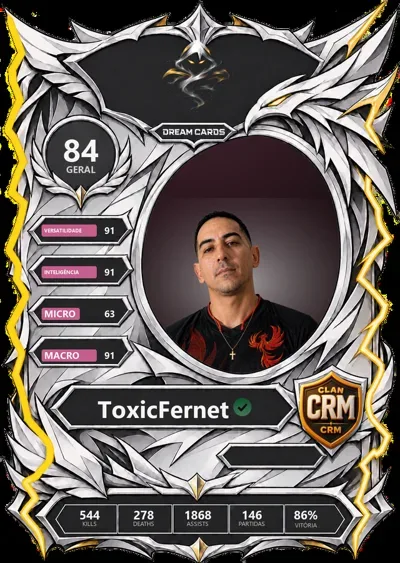
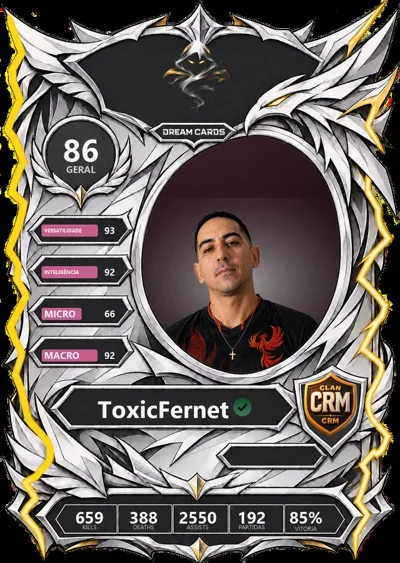
Dados do site de 27/11: numeros, mural, cartas do topo e a Radio de hoje
O site estava congelado desde 21/11 04:15 (gerar e publicar sao a mao, nada agendado).

- numeros medidos em 27/11 10:48: 18 servidores, 2.013 membros, 1.550 pessoas,
  141 cartas, 6.598 partidas lidas, 9.116 prints.
  O medidor lia o Dream Cards na VPS 2, desligada desde a virada de 18/11, e devolvia
  ZERO cartas/partidas/prints; agora le na VPS 7, em /opt/crm/DreamCards/Dados.
- mural Acontece na comunidade: de 20/11 para 26-27/11 (9 imagens trocadas)
- as 6 cartas do topo da temporada 16, atualizadas
- Radio: radio.json regerado em 27/11 11:27 (as mesmas 25 faixas, 6 discos)
- index.html: dados.js?v=20261121 para ?v=20261127

diff --git a/dados/dados.js b/dados/dados.js
@@ -1,5 +1,5 @@
 window.CRM_DADOS = {
- "gerado_em": "21/11/2026 04:15",
+ "gerado_em": "27/11/2026 11:27",
  "fonte": "Claude (do código do projeto)",
  "produtos": [
   {
@@ -282,14 +282,14 @@ window.CRM_DADOS = {
   "comprovante_passo": "No Discord da CRM, no canal 🎩・la-nostra-casa, escolhe **Abrir Ticket** no menu e manda o comprovante ali."
  },
  "numeros": {
-  "medido_em": "20/11/2026 11:18",
+  "medido_em": "27/11/2026 10:48",
   "frases": {
    "servidores": "18 servidores",
    "pessoas": "1.500+ pessoas",
-   "membros": "1.900+ membros na rede",
-   "cartas": "131 cartas",
-   "partidas": "5.000+ partidas lidas",
-   "prints": "8.000+ prints",
+   "membros": "2.000+ membros na rede",
+   "cartas": "141 cartas",
+   "partidas": "6.000+ partidas lidas",
+   "prints": "9.000+ prints",
    "midia": "a mídia chega em 16 servidores"
   },
   "proibido": [
@@ -706,24 +706,24 @@ window.CRM_DADOS = {
  },
  "dreamcards": {
   "temporada": 16,
-  "atualizado_epoch": 1795245027.7020826,
+  "atualizado_epoch": 1795789379.2724805,
   "premio": "O prêmio da próxima temporada do pódio é anunciado no Discord do Dream Cards. O Mobile Legends ganha prêmio quando chegar a 50 jogadores com carta.",
   "cartas": [
    {
     "posicao": 1,
-    "nick": "ASF·是瑶瑶呀/.",
+    "nick": "FXV.SAGRADO亗",
     "imagem_referencia": "site-dados/cartas/01.webp",
     "imagem": "assets/cartas/01.webp"
    },
    {
     "posicao": 2,
-    "nick": "FXV.SAGRADO亗",
+    "nick": "ASF•AuraFarmer",
     "imagem_referencia": "site-dados/cartas/02.webp",
     "imagem": "assets/cartas/02.webp"
    },
    {
     "posicao": 3,
-    "nick": "Alagusii",
+    "nick": "🇨🇱lkaozzz.",
     "imagem_referencia": "site-dados/cartas/03.webp",
     "imagem": "assets/cartas/03.webp"
    },
@@ -735,13 +735,13 @@ window.CRM_DADOS = {
    },
    {
     "posicao": 5,
-    "nick": "⨀CRM.¥uTa",
+    "nick": "Alagusii",
     "imagem_referencia": "site-dados/cartas/05.webp",
     "imagem": "assets/cartas/05.webp"
    },
    {
     "posicao": 6,
-    "nick": "Faals",
+    "nick": "ASF_nando",
     "imagem_referencia": "site-dados/cartas/06.webp",
     "imagem": "assets/cartas/06.webp"
    }
@@ -884,7 +884,7 @@ window.CRM_DADOS = {
  "em_preparo": [],
  "radio": {
   "nome": "Rádio CRM",
-  "gerado_em": "21/11/2026 04:15",
+  "gerado_em": "27/11/2026 11:27",
   "epoch_inicio": 1792983600,
   "total_s": 5324.2,
   "como_tocar": "posição = (agora_em_segundos - epoch_inicio) mod total_s; anda pela lista somando duracao_s até achar a faixa e o segundo dentro dela. O navegador só toca depois do 1º clique (regra dos navegadores): o botão 'Ouvir' liga e pula pro segundo certo.",
@@ -1252,167 +1252,167 @@ window.CRM_DADOS = {
   ]
  },
  "midia": {
-  "atualizado_em": "2026-11-21T04:19:28-03:00",
+  "atualizado_em": "2026-11-27T11:28:04-03:00",
   "fonte": "o 📲・mídia do Discord da CRM",
   "posts": [
    {
-    "id": "1573488134002315297",
-    "texto": "🌟 HORA DOURADA COMEÇOU! Até as 22:00, todo o drop vale 2x: a chance das cartas (a Etiril e as raras), os CRM coins de cada print e a chance da Joia Dream. Manda print! 🎁",
+    "id": "1575855645704593439",
+    "texto": "💀🧟 DROP DAS MORTES! morreu tanto que virou zumbi e dropou a carta Lápide do Retorno da Zumbilândia!",
     "autor_publico": "Dream Cards",
     "origem_publica": "Discord da CRM · 📲 mídia",
-    "publicado_em": "2026-11-20T21:00:05-03:00",
-    "url_discord": "https://discord.com/channels/1424066515564495095/1449866124517965834/1573488134002315297",
+    "publicado_em": "2026-11-27T09:47:43-03:00",
+    "url_discord": "https://discord.com/channels/1424066515564495095/1449866124517965834/1575855645704593439",
+    "anexos": [
+     {
+      "tipo": "imagem",
+      "url": "assets/midia/1575855645704593439_0.webp",
+      "referencia": "site-dados/midia/1575855645704593439_0.webp",
+      "alt": "Imagem do post da Dream Cards"
+     }
+    ],
+    "tem_video": false
+   },
+   {
+    "id": "1575785507785285782",
+    "texto": "💀🧟 DROP DAS MORTES! morreu tanto que virou zumbi e dropou a carta Correio da Cripta da Zumbilândia!",
+    "autor_publico": "Dream Cards",
+    "origem_publica": "Discord da CRM · 📲 mídia",
+    "publicado_em": "2026-11-27T05:09:01-03:00",
+    "url_discord": "https://discord.com/channels/1424066515564495095/1449866124517965834/1575785507785285782",
+    "anexos": [
+     {
+      "tipo": "imagem",
+      "url": "assets/midia/1575785507785285782_0.webp",
+      "referencia": "site-dados/midia/1575785507785285782_0.webp",
+      "alt": "Imagem do post da Dream Cards"
+     }
+    ],
+    "tem_video": false
+   },
+   {
+    "id": "1575741453198692352",
+    "texto": "💀🧟 DROP DAS MORTES! morreu tanto que virou zumbi e dropou a carta Horta Assombrada da Zumbilândia!",
+    "autor_publico": "Dream Cards",
+    "origem_publica": "Discord da CRM · 📲 mídia",
+    "publicado_em": "2026-11-27T02:13:58-03:00",
+    "url_discord": "https://discord.com/channels/1424066515564495095/1449866124517965834/1575741453198692352",
+    "anexos": [
+     {
+      "tipo": "imagem",
+      "url": "assets/midia/1575741453198692352_0.webp",
+      "referencia": "site-dados/midia/1575741453198692352_0.webp",
+      "alt": "Imagem do post da Dream Cards"
+     }
+    ],
+    "tem_video": false
+   },
+   {
+    "id": "1575704456216051743",
+    "texto": "🎉 DROP! dropou a carta Loja sem Saída mandando print (5% de chance)",
+    "autor_publico": "Dream Cards",
+    "origem_publica": "Discord da CRM · 📲 mídia",
+    "publicado_em": "2026-11-26T23:46:57-03:00",
+    "url_discord": "https://discord.com/channels/1424066515564495095/1449866124517965834/1575704456216051743",
+    "anexos": [
+     {
+      "tipo": "imagem",
+      "url": "assets/midia/1575704456216051743_0.webp",
+      "referencia": "site-dados/midia/1575704456216051743_0.webp",
+      "alt": "Imagem do post da Dream Cards"
+     }
+    ],
+    "tem_video": false
+   },
+   {
+    "id": "1575696554831122544",
+    "texto": "🎉 DROP! dropou a carta Sinal Perdido mandando print (5% de chance)",
+    "autor_publico": "Dream Cards",
+    "origem_publica": "Discord da CRM · 📲 mídia",
+    "publicado_em": "2026-11-26T23:15:33-03:00",
+    "url_discord": "https://discord.com/channels/1424066515564495095/1449866124517965834/1575696554831122544",
+    "anexos": [
+     {
+      "tipo": "imagem",
+      "url": "assets/midia/1575696554831122544_0.webp",
+      "referencia": "site-dados/midia/1575696554831122544_0.webp",
+      "alt": "Imagem do post da Dream Cards"
+     }
+    ],
+    "tem_video": false
+   },
+   {
+    "id": "1575662461544308750",
+    "texto": "🌟 HORA DOURADA COMEÇOU! Até as 22:00, todo o drop vale 2x: a chance das cartas (as do drop comum e as raras), os CRM coins de cada print e a chance da Joia Dream. Manda print! 🎁",
+    "autor_publico": "Dream Cards",
+    "origem_publica": "Discord da CRM · 📲 mídia",
+    "publicado_em": "2026-11-26T21:00:05-03:00",
+    "url_discord": "https://discord.com/channels/1424066515564495095/1449866124517965834/1575662461544308750",
     "anexos": [],
     "tem_video": false
    },
    {
-    "id": "1573458464725012626",
-    "texto": "🃏 A carta da ZenytCloud no Dream Cards\nO patrocinador da CRM também está no Dream Cards: a carta da ZenytCloud tem 1% de chance de cair quando você curte um jogador.\n\n-# #ad · Publicidade: patrocínio da ZenytCloud à CRM.\n🔗 https://zenytcloud.com/?ref=crmadministradora\n💬 https://discord.gg/GauJGFCyf2",
+    "id": "1575633310544035994",
+    "texto": "🌐 Hospedagem pro teu projeto\nSite, bot ou servidor de jogo: a Mega Dedicados tem hospedagem pra cada tamanho de projeto. Confira no site.\n\n-# #ad · Publicidade: patrocínio da Mega Dedicados à CRM.\n🔗 https://megadedicados.com.br/",
     "autor_publico": "CRM",
     "origem_publica": "Discord da CRM · 📲 mídia",
-    "publicado_em": "2026-11-20T19:02:11-03:00",
-    "url_discord": "https://discord.com/channels/1424066515564495095/1449866124517965834/1573458464725012626",
+    "publicado_em": "2026-11-26T19:04:15-03:00",
+    "url_discord": "https://discord.com/channels/1424066515564495095/1449866124517965834/1575633310544035994",
     "anexos": [
      {
       "tipo": "imagem",
-      "url": "assets/midia/1573458464725012626_0.webp",
-      "referencia": "site-dados/midia/1573458464725012626_0.webp",
-      "alt": "🃏 A carta da ZenytCloud no Dream Cards"
+      "url": "assets/midia/1575633310544035994_0.webp",
+      "referencia": "site-dados/midia/1575633310544035994_0.webp",
+      "alt": "🌐 Hospedagem pro teu projeto"
      }
     ],
     "tem_video": false
    },
    {
-    "id": "1573422660338065529",
-    "texto": "🎉 DROP! dropou a carta Casa do Gerador mandando print (5% de chance)",
+    "id": "1575600207549308959",
+    "texto": "💀🧟 DROP DAS MORTES! morreu tanto que virou zumbi e dropou a carta Acorda, Campeão da Zumbilândia!",
     "autor_publico": "Dream Cards",
     "origem_publica": "Discord da CRM · 📲 mídia",
-    "publicado_em": "2026-11-20T16:39:55-03:00",
-    "url_discord": "https://discord.com/channels/1424066515564495095/1449866124517965834/1573422660338065529",
+    "publicado_em": "2026-11-26T16:52:42-03:00",
+    "url_discord": "https://discord.com/channels/1424066515564495095/1449866124517965834/1575600207549308959",
     "anexos": [
      {
       "tipo": "imagem",
-      "url": "assets/midia/1573422660338065529_0.webp",
-      "referencia": "site-dados/midia/1573422660338065529_0.webp",
+      "url": "assets/midia/1575600207549308959_0.webp",
+      "referencia": "site-dados/midia/1575600207549308959_0.webp",
       "alt": "Imagem do post da Dream Cards"
      }
     ],
     "tem_video": false
    },
    {
-    "id": "1573363957178048672",
-    "texto": "✨ ELE BRILHOU!! ASF_nando\n\nAtingiu 80%+ de confiança de carta! E liberou o traje Sabotage 2.\n\nQuer participar também?\nhttps://discord.gg/6KMTFeZjFx\n\nDream Cards é mais um projeto CRM! ❤",
+    "id": "1575543008848388268",
+    "texto": "🌙✨ DROP RARÍSSIMO DA NIGHT EDITION! dropou a carta Night Panther mandando print (só 0,3% de chance) e está BRILHANDO!",
     "autor_publico": "Dream Cards",
     "origem_publica": "Discord da CRM · 📲 mídia",
-    "publicado_em": "2026-11-20T12:46:39-03:00",
-    "url_discord": "https://discord.com/channels/1424066515564495095/1449866124517965834/1573363957178048672",
+    "publicado_em": "2026-11-26T13:05:25-03:00",
+    "url_discord": "https://discord.com/channels/1424066515564495095/1449866124517965834/1575543008848388268",
     "anexos": [
      {
       "tipo": "imagem",
-      "url": "assets/midia/1573363957178048672_0.webp",
-      "referencia": "site-dados/midia/1573363957178048672_0.webp",
+      "url": "assets/midia/1575543008848388268_0.webp",
+      "referencia": "site-dados/midia/1575543008848388268_0.webp",
       "alt": "Imagem do post da Dream Cards"
      }
     ],
     "tem_video": false
    },
    {
-    "id": "1573362972699533472",
-    "texto": "✨ ELE BRILHOU!! 🇨🇱.Ikaos\n\n🛡 Ganhou o selo CHOK BR na carta!\n🎁 Levou as 2 cartas da Ghost (Thunder Hawk Ghost e CRM Ghost) + 50 CRM coins.\n🔗 Comprovação: [1](<https://www.youtube.com/live/7U7qPNTzoHA?si=hO4RrwbFDP0eNr5v>)\n\nQuer participar também?\nhttps://discord.gg/6KMTFeZjFx\n\nDream Cards é mais um projeto CRM! ❤",
-    "autor_publico": "Dream Cards",
-    "origem_publica": "Discord da CRM · 📲 mídia",
-    "publicado_em": "2026-11-20T12:42:44-03:00",
-    "url_discord": "https://discord.com/channels/1424066515564495095/1449866124517965834/1573362972699533472",
-    "anexos": [
-     {
-      "tipo": "imagem",
-      "url": "assets/midia/1573362972699533472_0.webp",
-      "referencia": "site-dados/midia/1573362972699533472_0.webp",
-      "alt": "Imagem do post da Dream Cards"
-     }
-    ],
-    "tem_video": false
-   },
-   {
-    "id": "1573362947802013808",
-    "texto": "✨ ELE BRILHOU!! SÀT BEYONIS\n\n🛡 Ganhou o selo CHOK BR na carta!\n🎁 Levou as 2 cartas da Ghost (Thunder Hawk Ghost e CRM Ghost) + 50 CRM coins.\n🔗 Comprovação: [1](<https://www.instagram.com/p/DdMKniSFsyd/?img_index=4&rpxt=b3RpY2ZleXZpZWgx>) · [2](<https://www.youtube.com/live/h8pneDjOJLc?is=h1IcS3SBcLWJfv0g>)\n\nQuer participar também?\nhttps://discord.gg/6KMTFeZjFx\n\nDream Cards é mais um projeto CRM! ❤",
-    "autor_publico": "Dream Cards",
-    "origem_publica": "Discord da CRM · 📲 mídia",
-    "publicado_em": "2026-11-20T12:42:38-03:00",
-    "url_discord": "https://discord.com/channels/1424066515564495095/1449866124517965834/1573362947802013808",
-    "anexos": [
-     {
-      "tipo": "imagem",
-      "url": "assets/midia/1573362947802013808_0.webp",
-      "referencia": "site-dados/midia/1573362947802013808_0.webp",
-      "alt": "Imagem do post da Dream Cards"
-     }
-    ],
-    "tem_video": false
-   },
-   {
-    "id": "1573349906297397389",
-    "texto": "💎 DROP RARO! dropou a carta Circuito Oculto mandando print (só 1% de chance)!",
-    "autor_publico": "Dream Cards",
-    "origem_publica": "Discord da CRM · 📲 mídia",
-    "publicado_em": "2026-11-20T11:50:49-03:00",
-    "url_discord": "https://discord.com/channels/1424066515564495095/1449866124517965834/1573349906297397389",
-    "anexos": [
-     {
-      "tipo": "imagem",
-      "url": "assets/midia/1573349906297397389_0.webp",
-      "referencia": "site-dados/midia/1573349906297397389_0.webp",
-      "alt": "Imagem do post da Dream Cards"
-     }
-    ],
-    "tem_video": false
-   },
-   {
-    "id": "1573317105116516432",
-    "texto": "🎉 DROP! dropou a carta Pavilhão de Isolamento mandando print (5% de chance)",
-    "autor_publico": "Dream Cards",
-    "origem_publica": "Discord da CRM · 📲 mídia",
-    "publicado_em": "2026-11-20T09:40:28-03:00",
-    "url_discord": "https://discord.com/channels/1424066515564495095/1449866124517965834/1573317105116516432",
-    "anexos": [
-     {
-      "tipo": "imagem",
-      "url": "assets/midia/1573317105116516432_0.webp",
-      "referencia": "site-dados/midia/1573317105116516432_0.webp",
-      "alt": "Imagem do post da Dream Cards"
-     }
-    ],
-    "tem_video": false
-   },
-   {
-    "id": "1573243328244228186",
-    "texto": "🎉 DROP! dropou a carta Rua em Brasas mandando print (5% de chance)",
-    "autor_publico": "Dream Cards",
-    "origem_publica": "Discord da CRM · 📲 mídia",
-    "publicado_em": "2026-11-20T04:47:18-03:00",
-    "url_discord": "https://discord.com/channels/1424066515564495095/1449866124517965834/1573243328244228186",
-    "anexos": [
-     {
-      "tipo": "imagem",
-      "url": "assets/midia/1573243328244228186_0.webp",
-      "referencia": "site-dados/midia/1573243328244228186_0.webp",
-      "alt": "Imagem do post da Dream Cards"
-     }
-    ],
-    "tem_video": false
-   },
-   {
-    "id": "1573209651187818546",
+    "id": "1575506382491357294",
     "texto": "🎉 DROP! dropou a carta Loja sem Saída mandando print (5% de chance)",
     "autor_publico": "Dream Cards",
     "origem_publica": "Discord da CRM · 📲 mídia",
-    "publicado_em": "2026-11-20T02:33:29-03:00",
-    "url_discord": "https://discord.com/channels/1424066515564495095/1449866124517965834/1573209651187818546",
+    "publicado_em": "2026-11-26T10:39:53-03:00",
+    "url_discord": "https://discord.com/channels/1424066515564495095/1449866124517965834/1575506382491357294",
     "anexos": [
      {
       "tipo": "imagem",
-      "url": "assets/midia/1573209651187818546_0.webp",
-      "referencia": "site-dados/midia/1573209651187818546_0.webp",
+      "url": "assets/midia/1575506382491357294_0.webp",
+      "referencia": "site-dados/midia/1575506382491357294_0.webp",
       "alt": "Imagem do post da Dream Cards"
      }
     ],

diff --git a/index.html b/index.html
@@ -398,7 +398,7 @@
 <div class="mini-radio" aria-label="Rádio CRM"><button id="mini-ouvir" type="button" aria-label="Ouvir a Rádio CRM">▶</button><div><b>Rádio CRM</b><small id="mini-faixa">Música pra acompanhar tua navegação</small></div><label for="radio-volume">Volume</label><input id="radio-volume" type="range" min="0" max="1" step="0.05" value="0.6"><a data-link="site_crm" target="_blank" rel="noopener" aria-label="Ouvir a Rádio CRM no Discord">Discord ↗</a><span id="radio-status" role="status"></span></div>
 <dialog id="shop-detail" aria-labelledby="shop-detail-title"><button type="button" class="shop-button shop-close" id="shop-close" aria-label="Fechar traje">Fechar ×</button><div class="shop-detail-layout"><img id="shop-detail-img" alt=""><div><span class="sobretitulo" id="shop-detail-game"></span><h2 id="shop-detail-title"></h2><p id="shop-detail-price" class="shop-price"></p><p id="shop-detail-promo"></p><p id="shop-detail-stock"></p><p>Escolhe o traje na ficha do Card Shop e compra com PIX ou CRM coins. No PIX, envia o comprovante pela DM; a CRM confirma e o traje entra no inventário.</p><div id="shop-buy"></div><p class="aviso">Já tem o traje? Veste pelo 🎒 Inventory no Discord. Prévia de exemplo; a tua carta mantém teu nome e teus dados.</p></div></div></dialog>
 <dialog id="visor-crm" aria-labelledby="visor-titulo"><header class="visor-header"><h2 id="visor-titulo">Visor do site</h2><button type="button" id="visor-fechar" aria-label="Fechar Visor">×</button></header><div class="visor-tools"><label for="visor-dia">Período</label><select id="visor-dia"><option value="hoje">Hoje</option><option value="ontem">Ontem</option></select><button type="button" id="visor-atualizar">Atualizar</button></div><p id="visor-status" role="status"></p><div id="visor-conteudo"></div></dialog>
-<script src="dados/dados.js?v=20261121"></script>
+<script src="dados/dados.js?v=20261127"></script>
 <script src="assets/js/site.js?v=20261107"></script>
 <script src="assets/js/radio-mini.js?v=p50"></script>
 <script src="assets/js/comunidade.js?v=20261028-areas"></script>
